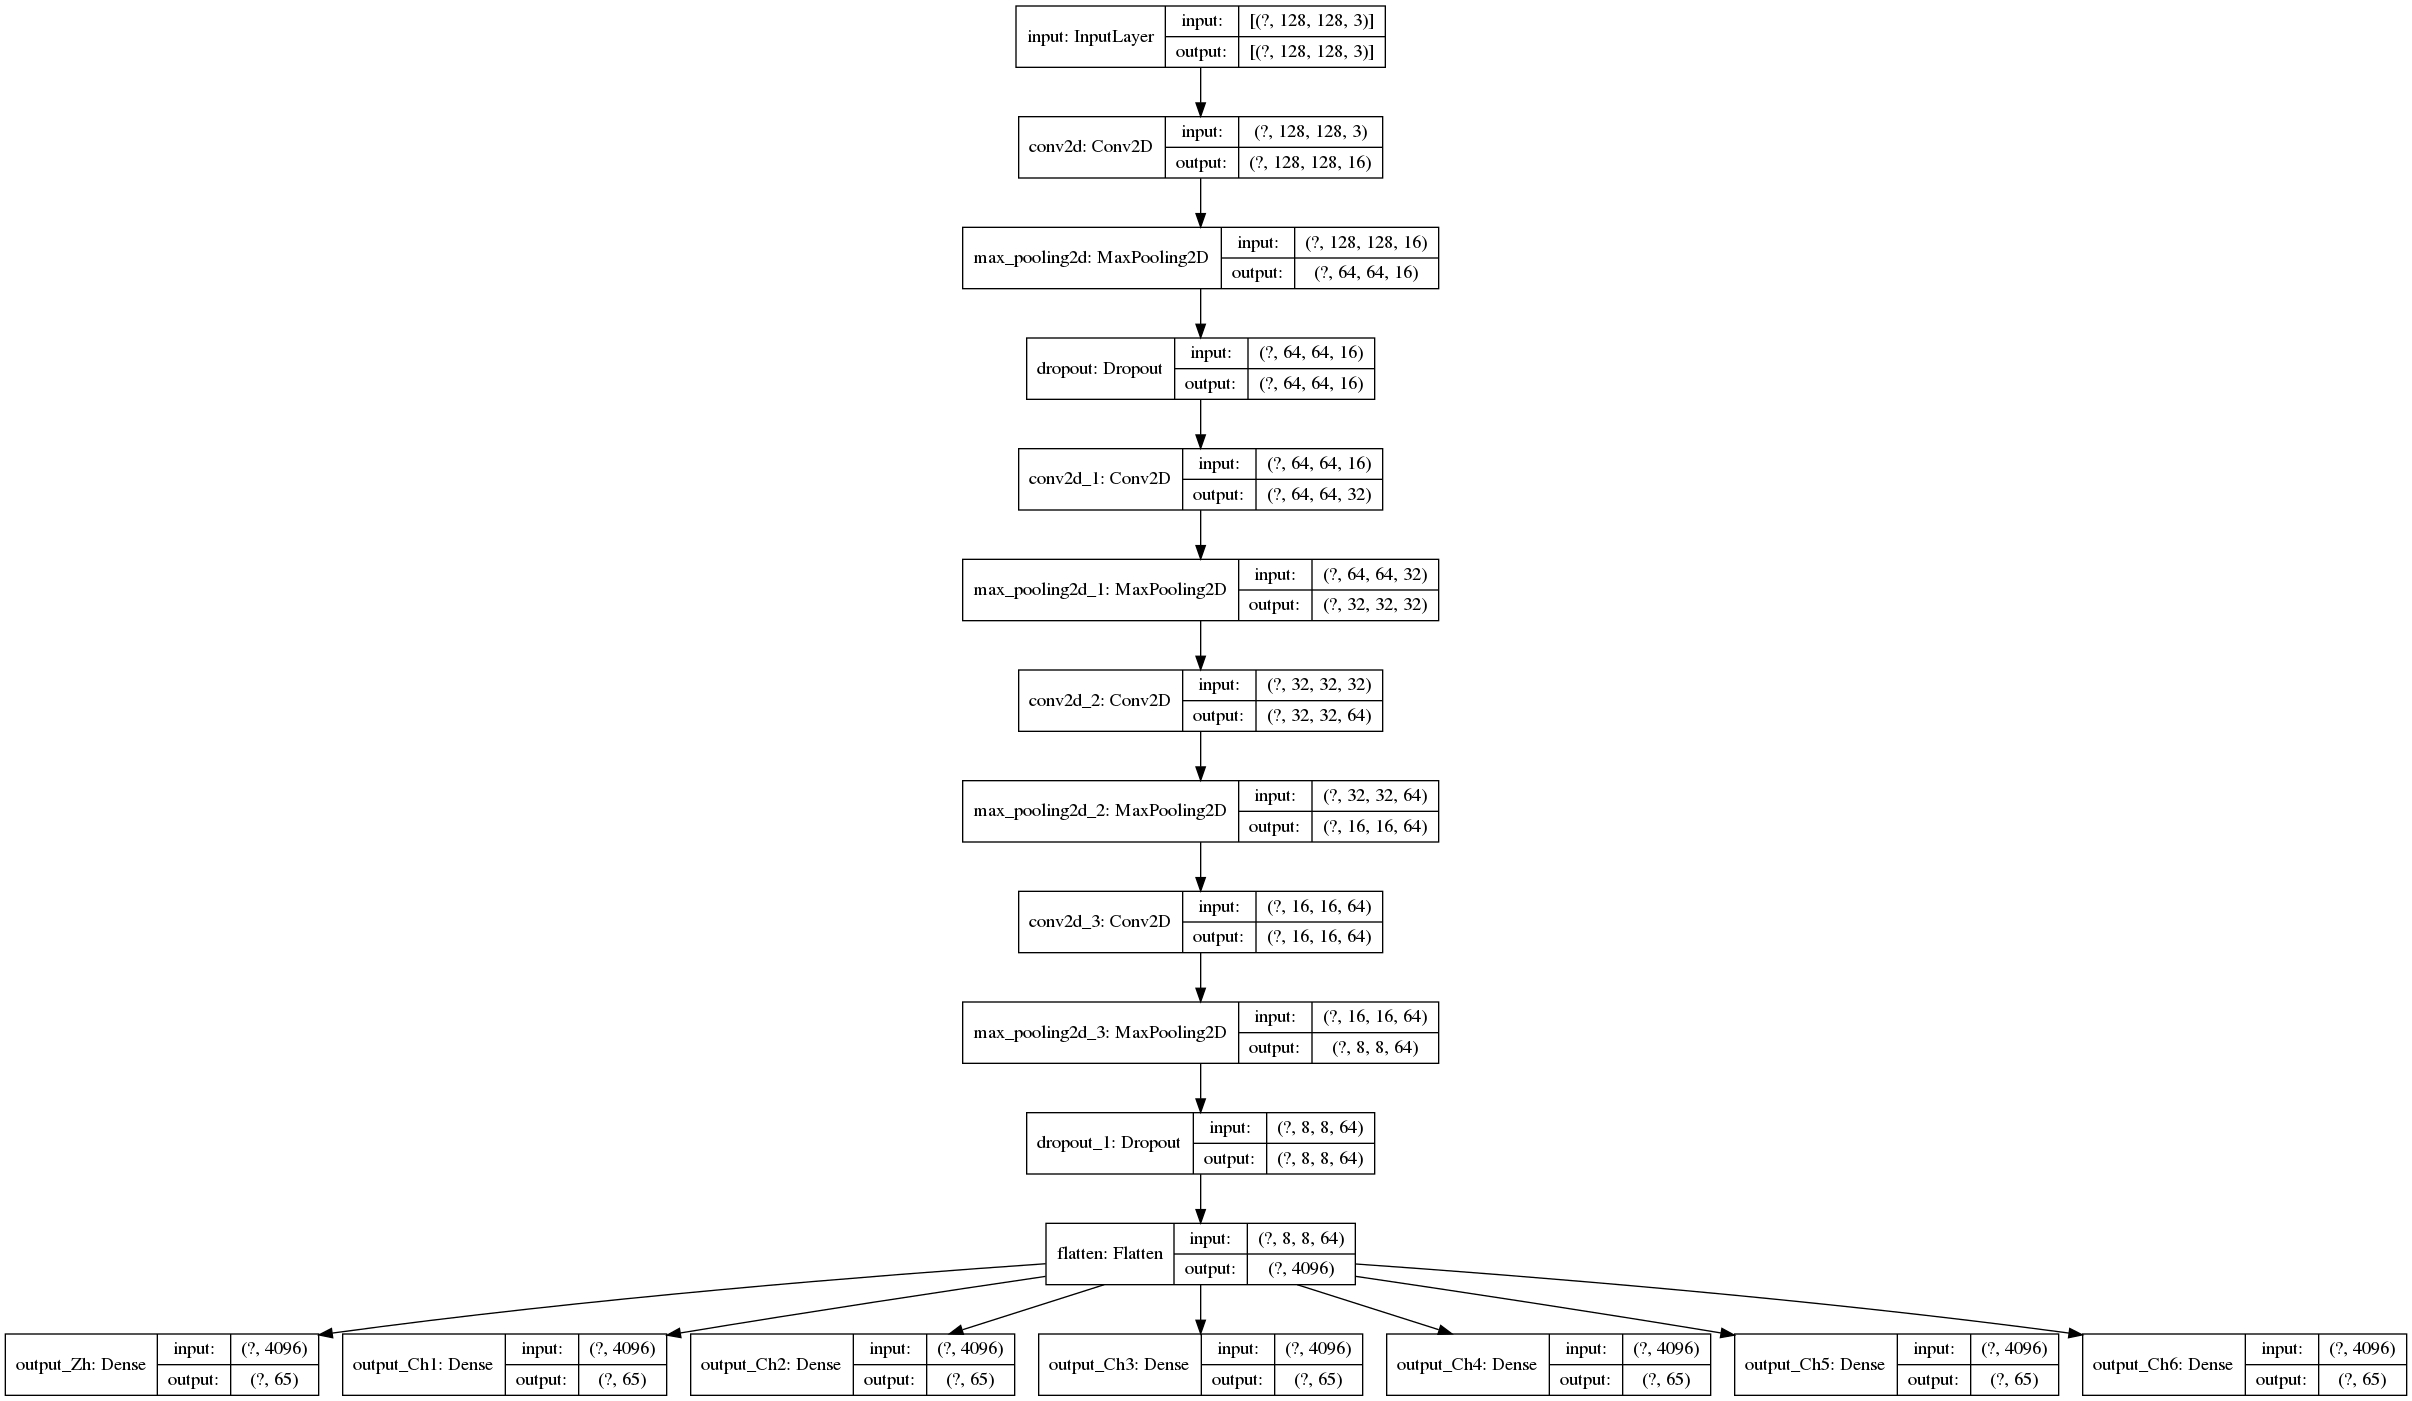
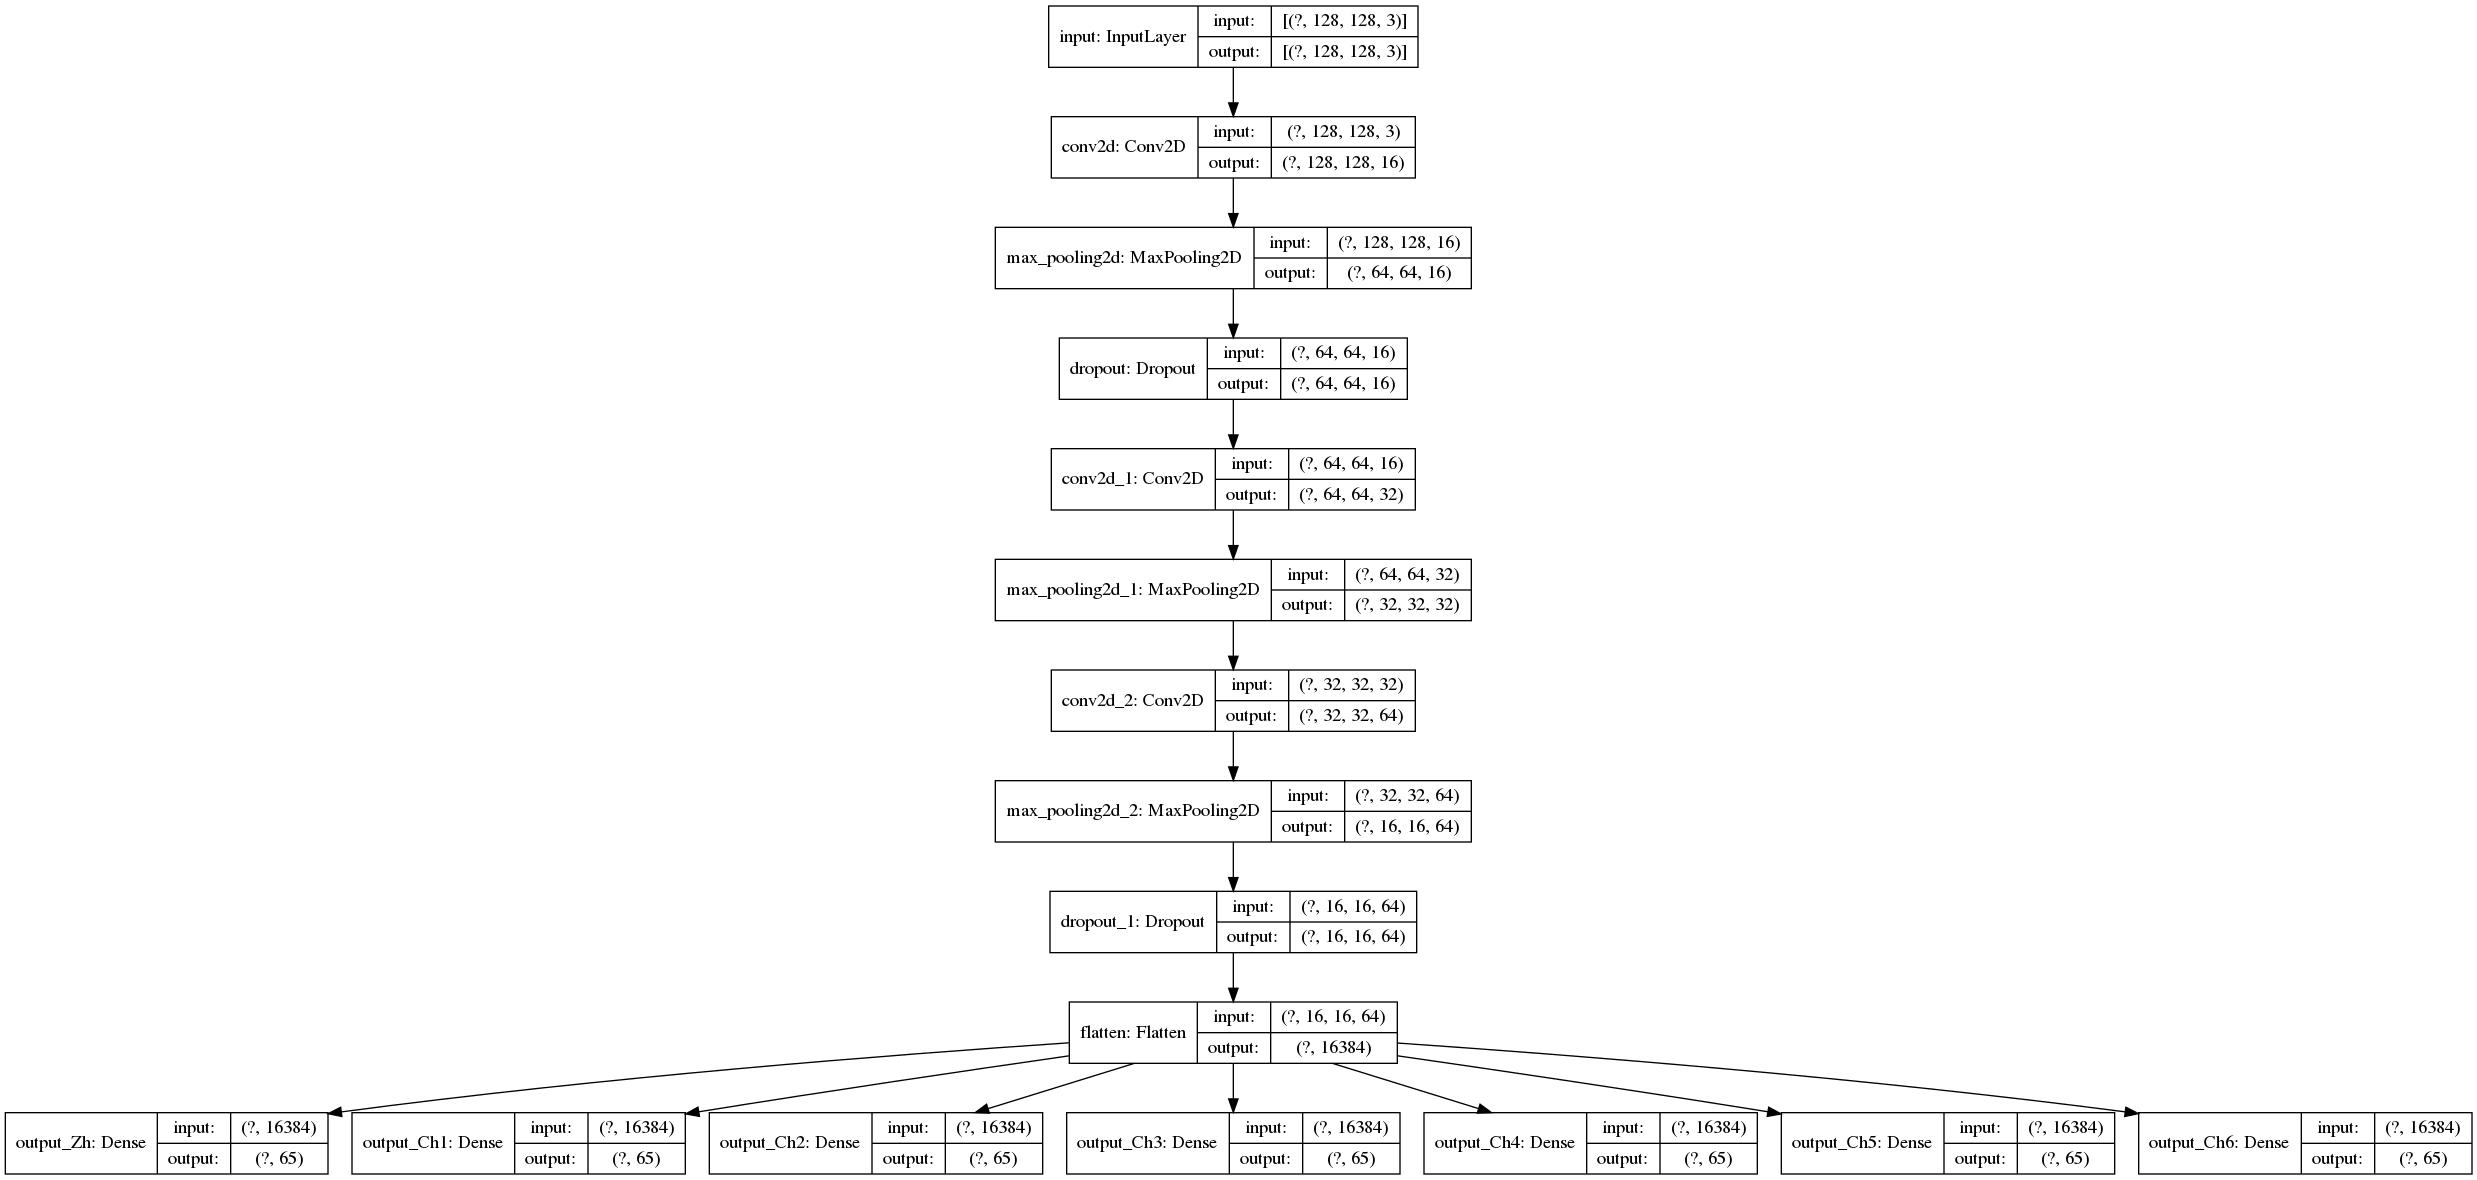
change model

Changed region(s): [[0.0, 0.0, 1.0, 1.0]]

diff --git a/train.py b/train.py
@@ -48,8 +48,7 @@ def PlateData(path,count):
             'output_Ch5': labelCh5,
             'output_Ch6': labelCh6
         }
-        ))
-    dataset = dataset.cache()   
+        ))                                                                                                                                                                                                      #Build TensorFlow Dataset (make a copy of data? Doubled Memory usage)
     dataset=dataset.shuffle(count)
     dataset=dataset.repeat()
     dataset=dataset.batch(BATCH_SIZE)
@@ -58,13 +57,11 @@ def PlateData(path,count):
         
 
 def Forward():
-    input=keras.Input(shape=(128,128,3),name='input')
+    input=keras.Input(shape=(128,128,3),name='input')                                                                                               
     x=layers.Conv2D(16,3,activation="relu",padding='same',kernel_initializer="he_normal")(input)
     x=layers.MaxPooling2D(2)(x)
     x=layers.Dropout(0.25)(x)
     x=layers.Conv2D(32,3,activation="relu",padding='same',kernel_initializer="he_normal")(x)
-    x=layers.MaxPooling2D(2)(x)
-    x=layers.Conv2D(64,3,activation="relu",padding='same',kernel_initializer="he_normal")(x)
     x=layers.MaxPooling2D(2)(x)
     x=layers.Conv2D(64,3,activation="relu",padding='same',kernel_initializer="he_normal")(x)
     x=layers.MaxPooling2D(2)(x)
@@ -91,7 +88,7 @@ def train():
     path.append(path2)
     path.append(path3)
     #count=len([name for name in os.listdir(path) if os.path.isfile(os.path.join(path, name))])
-    count=3000
+    count=12000
     dataset=PlateData(path,count)
     
     model=Forward()
